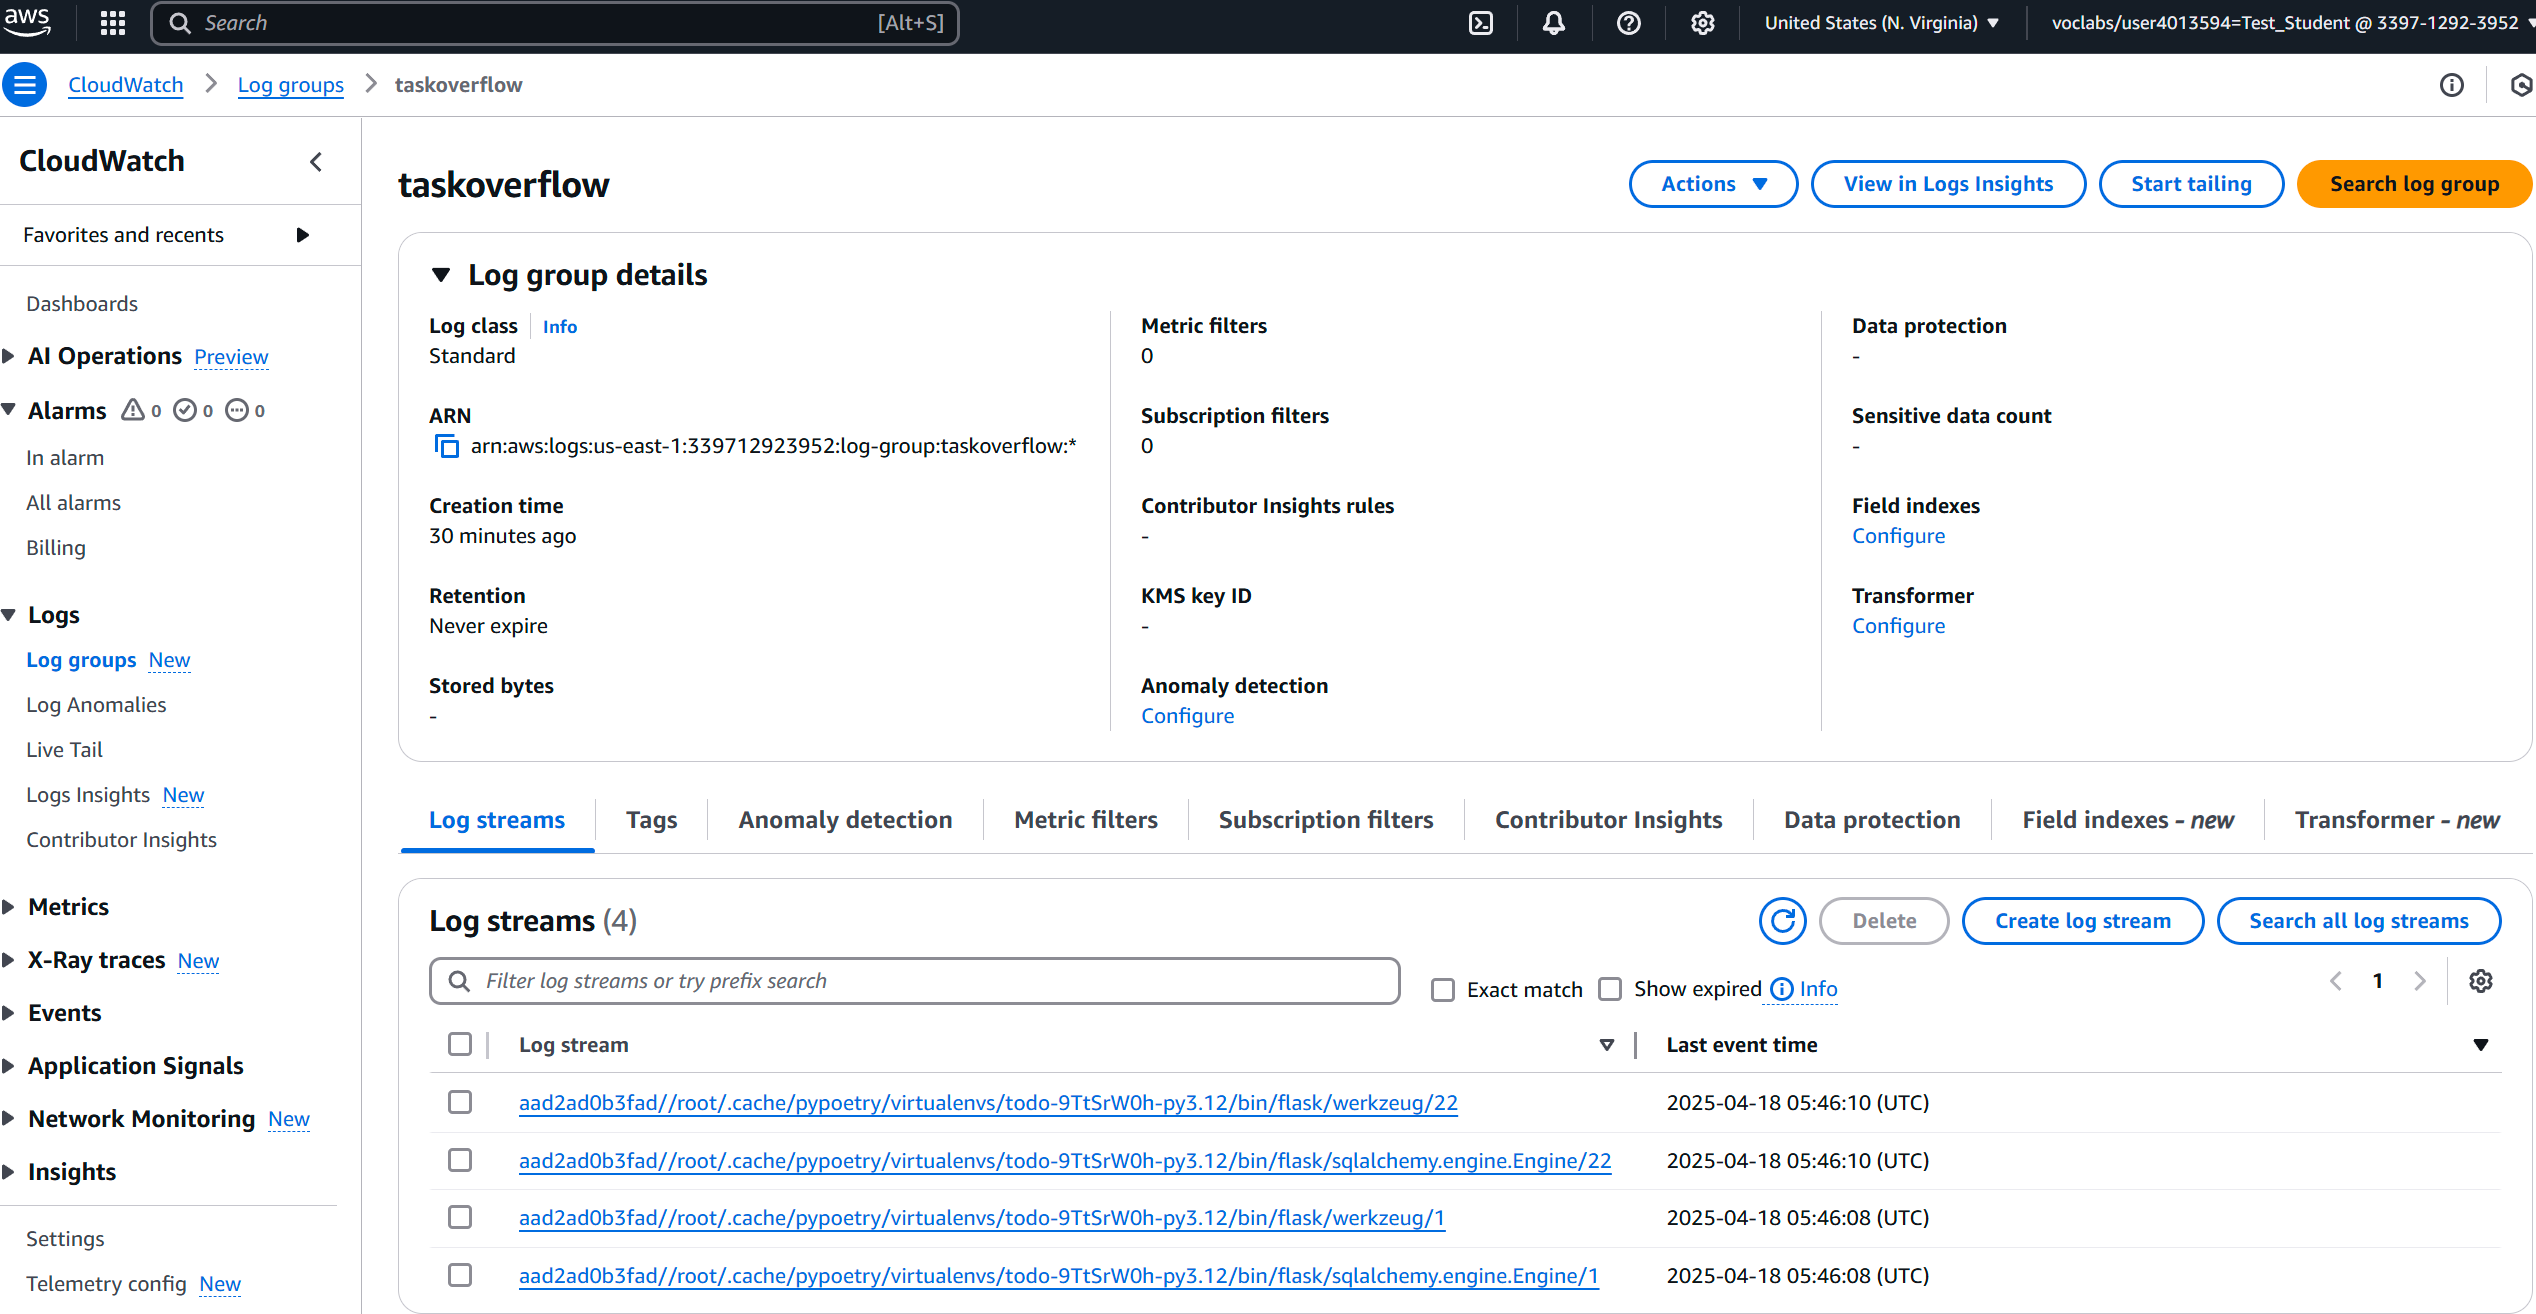
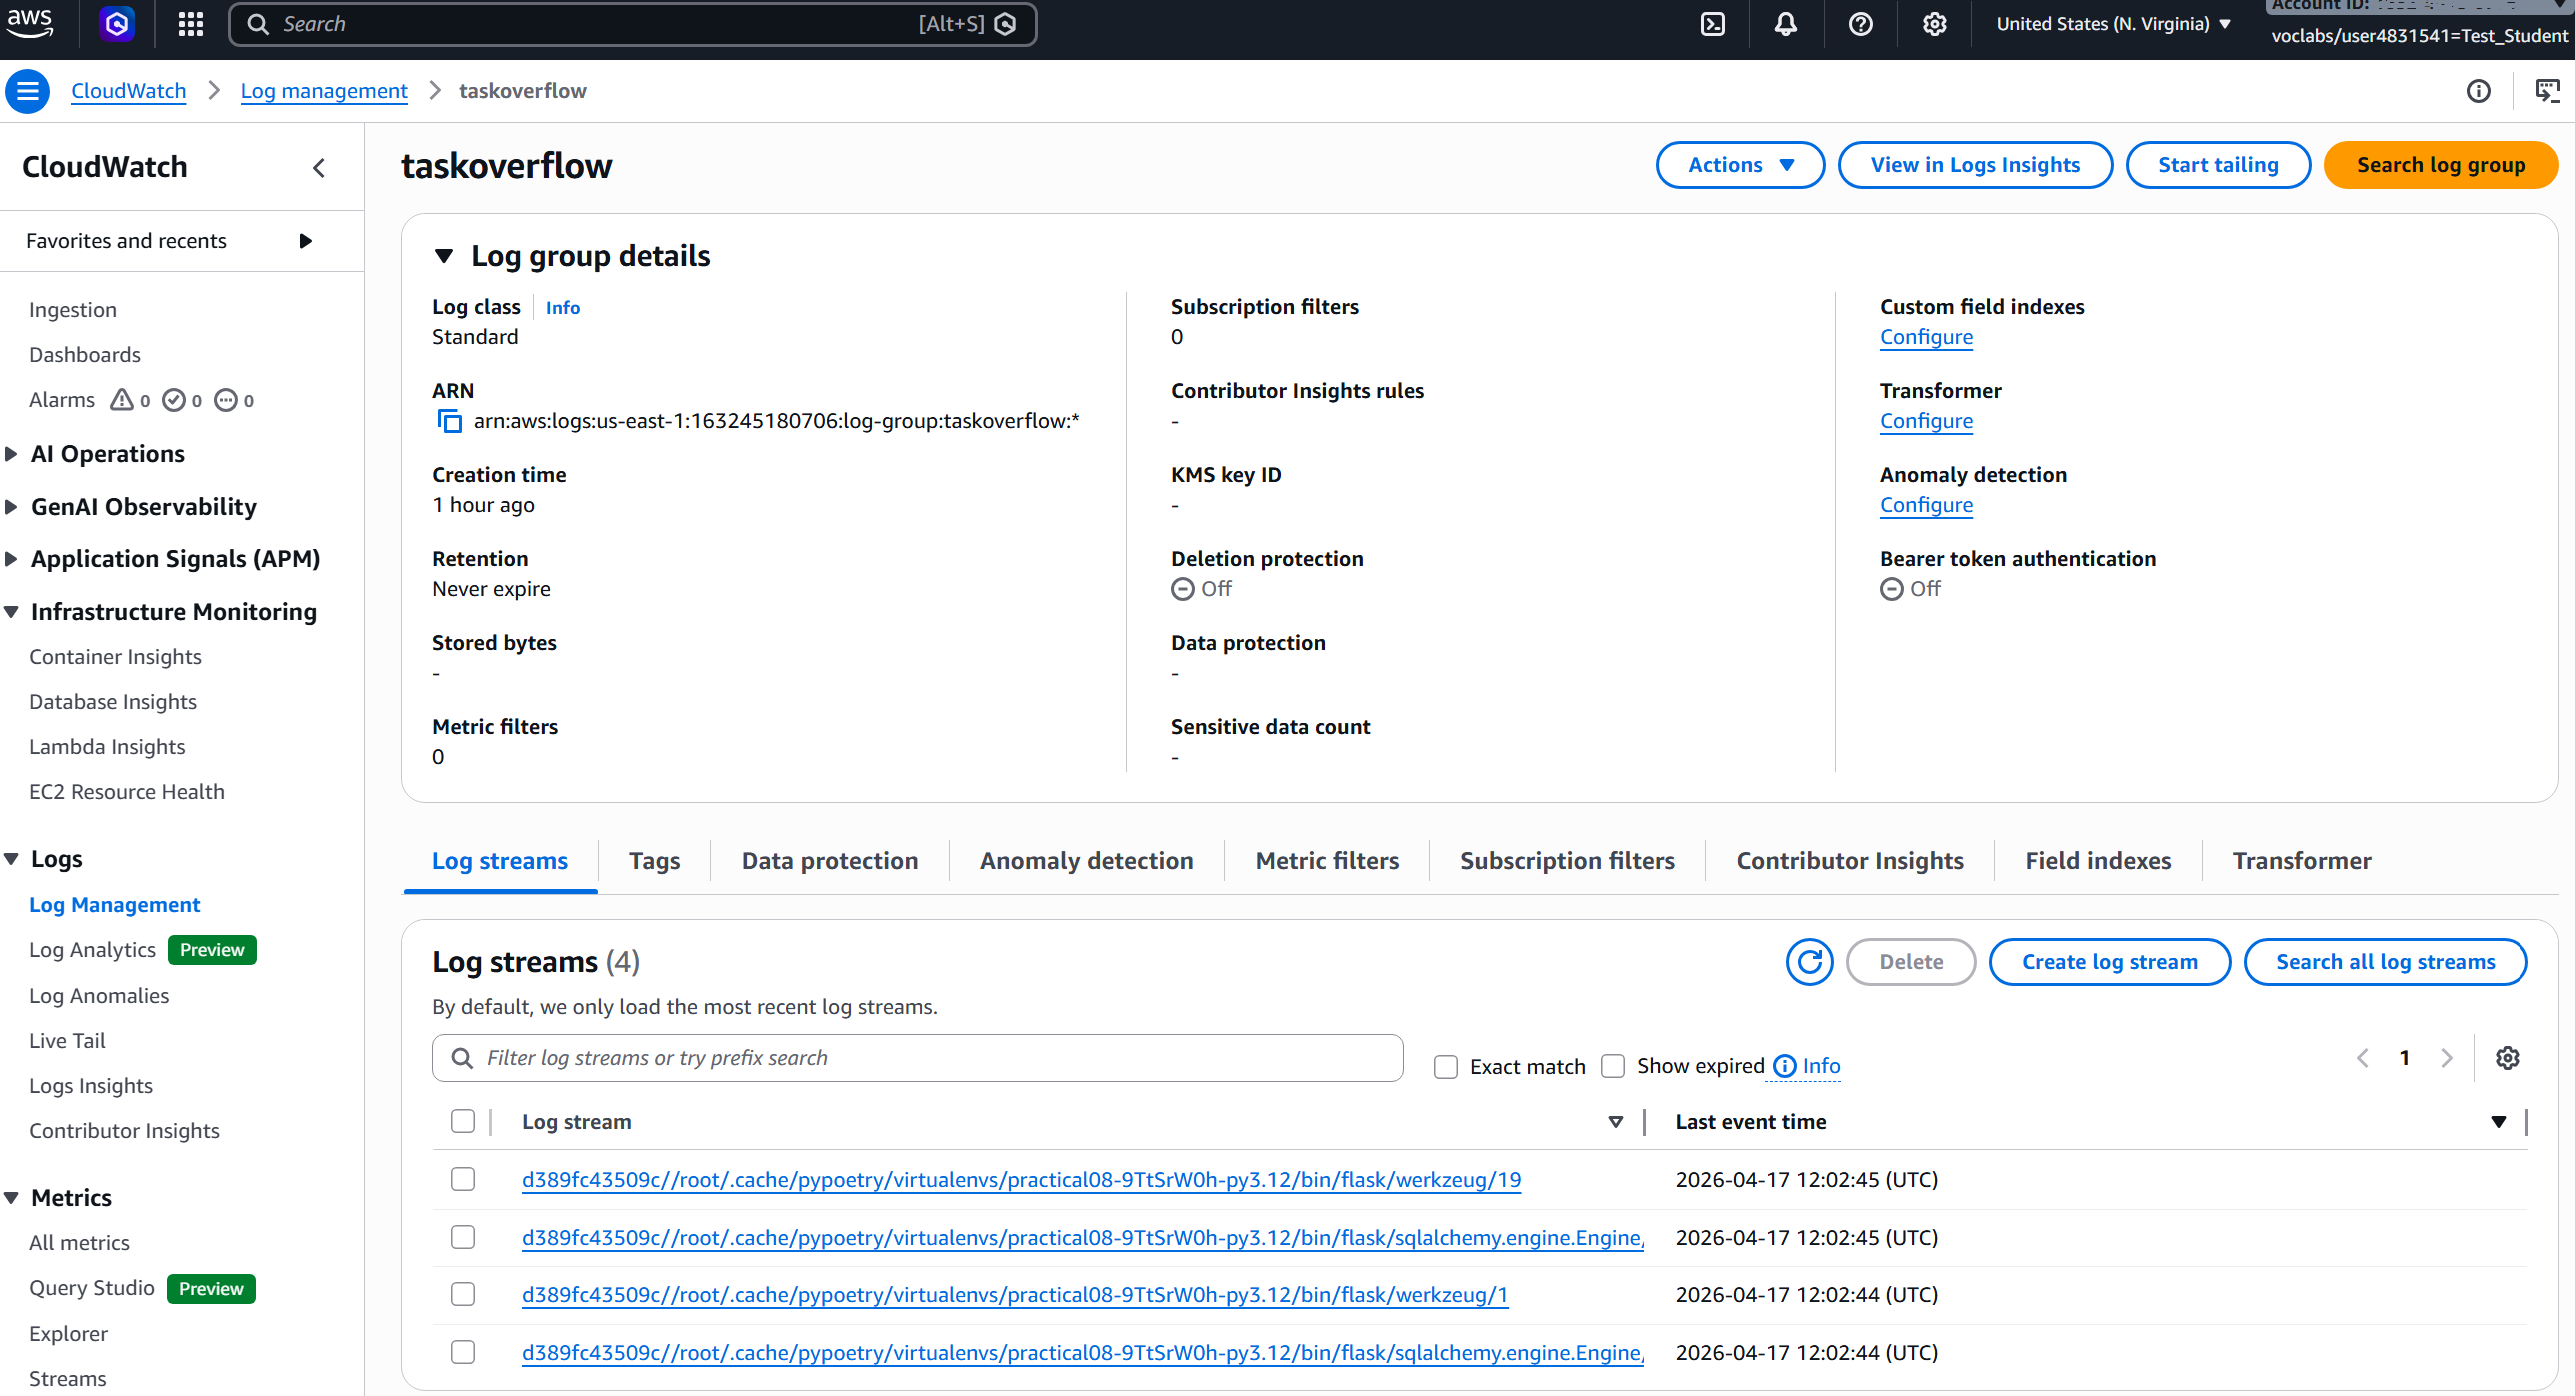
Updated prac 8 to refactor code and reflect changes in CloudWatch console.

diff --git a/practicals/week08/main.tex b/practicals/week08/main.tex
@@ -111,19 +111,25 @@ You should see logs similar to the above.
 Notice that information about Flask is prefixed with \texttt{INFO:werkzeug} and information about SQL Alchemy is prefixed with \texttt{INFO:sqlalchemy.engine.Engine}.
 These prefixes indicate into which stream the logs are put.
 
-Open the AWS CloudWatch console and go to \texttt{Logs > Log groups} on the side panel.
+Open the AWS CloudWatch console and go to \texttt{Logs > Log Management} on the side panel.
 You should see a log group called \texttt{taskoverflow}.
 If you click on that group you will see log streams associated with \texttt{INFO:werkzeug}
 and \texttt{INFO:sqlalchemy.engine.Engine}.
 
-\begin{center}
-    \includegraphics[width=\textwidth]{images/log-group}
-\end{center}
+\begin{figure}[ht]
+    \centering
+    \begin{adjustwidth}{-7.5mm}{-7.5mm}
+        \includegraphics[width=0.95\paperwidth]{images/log-group}
+    \end{adjustwidth}
+    \caption{TaskOverflow log streams in CloudWatch.}
+    \label{fig:cloud-logs}
+\end{figure}
 
 \subsection{Structured Logging}
 
 Our first task will be to convert the current logging into a structured logging format.
-As we saw in logging lecture \cite{logging-slides}, structured logging can be as simple as logging a JSON object.
+As we saw in the logging lecture \cite{logging-slides},
+structured logging can be as simple as logging a JSON object.
 This allows logging services to quickly filter through logs based on criteria selected from the object's fields.
 
 In \texttt{todo/\_\_init\_\_.py} we have the following code within the \texttt{create\_app} function.
@@ -145,9 +151,10 @@ This makes it easier to search the logs.
 To do this, we will create a custom log formatter that is a subclass of \\
 \texttt{watchtower.CloudWatchLogFormatter}.
 %
-\begin{code}[language=python,numbers=none]{todo/\_\_init\_\_.py}
+\begin{code}[language=python,numbers=none]{todo/log\_formatter.py}
+import logging
+import watchtower
 from flask import has_request_context, request
-...
 
 class StructuredFormatter(watchtower.CloudWatchLogFormatter):
     def format(self, record):
@@ -161,7 +168,18 @@ class StructuredFormatter(watchtower.CloudWatchLogFormatter):
             record.msg['url'] = request.environ.get('PATH_INFO')
             record.msg['method'] = request.environ.get('REQUEST_METHOD')
         return super().format(record)
+\end{code}
 
+These are just some metadata fields we might want to add to our logging.
+We may also consider \texttt{socket.gethostname()} to identify the instance handling a request,
+or other helpful information.
+
+We then need to get the \texttt{CloudWatchLogHandler} to use our \texttt{StructuredFormatter}.
+Add the following code to the \texttt{todo/\_\_init\_\_.py} file.
+%
+\begin{code}[language=python,numbers=none]{todo/\_\_init\_\_.py}
+from .log_formatter import StructuredFormatter
+...
 def create_app(config_overrides=None): 
     ...
     handler = ...
@@ -169,21 +187,19 @@ def create_app(config_overrides=None):
     ...
 \end{code}
 
-These are just some metadata fields we might want to add to our logging.
-We may also consider \texttt{socket.gethostname()} to identify the instance handling a request,
-or other helpful information.
-
 \subsection{Correlation IDs}
 
-Correlation IDs are a mechanism to help understand the path of a request, event, message, etc. through a system.
-When logging it is often helpful to be able to trace the execution of a particular request \cite{logging-slides}.
+Correlation IDs are a mechanism to help understand the path of a
+request, event, message, etc. through a system \cite{logging-slides}.
+When logging it is often helpful to be able to trace the execution of a particular request.
 
 For our system we will generate a new random identifier for each incoming request.
 This identifier will be included as part of the logging metadata.
-For a system with multiple API endpoints requests will often come with an established REQUEST\_ID header.
+A system with multiple API endpoints requests, will often come with an established REQUEST\_ID header.
 %
 \begin{code}[language=python,numbers=none]{todo/\_\_init\_\_.py}
 import uuid
+from flask import Flask, request
 ...
 
 def create_app(config_overrides=None): 
@@ -200,6 +216,8 @@ def create_app(config_overrides=None):
     def after_request(response):
         requests.info("Request finished")
         return response
+
+    # Load the models 
     ...
 \end{code}
 
@@ -212,7 +230,8 @@ Launch the service locally and make some API requests.
 
 You should now be able to go to the \texttt{Log Insights} interface from the sidebar.
 This interface allows you to query structured logging data.
-Try the following query to ensure that your logs seem sensible.
+Select the taskoverflow log group and
+run the following query to ensure that your logs seem sensible.
 %
 \begin{code}[numbers=none]{}
 fields request_id, url, method, @timestamp, message.message, @message, @method
@@ -231,8 +250,8 @@ We briefly saw \texttt{k6} at the end of the \textit{Scaling Stateless Component
 To review, \texttt{k6} is a load testing tool that is written in Go but provides an interface using a subset of JavaScript.
 
 It will help us to generate a large number of concurrent API requests.
-If you have not already done so, install \texttt{k6} from:
-\url{https://k6.io/docs/get-started/installation/}
+If you have not already done so, install \texttt{k6} from
+\url{https://k6.io/docs/get-started/installation/}.
 
 \subsection{Scenario}
 We want to simulate the following scenario using our testing framework.

diff --git a/practicals/week08/code/todo/__init__.py b/practicals/week08/code/todo/__init__.py
@@ -25,7 +25,7 @@ def create_app(config_overrides=None):
     logging.getLogger('werkzeug').addHandler(handler)
     logging.getLogger("sqlalchemy.engine").addHandler(handler)
     logging.getLogger("sqlalchemy.engine").setLevel(logging.INFO)
-   
+
     requests = logging.getLogger("requests")
     requests.addHandler(handler)
 
